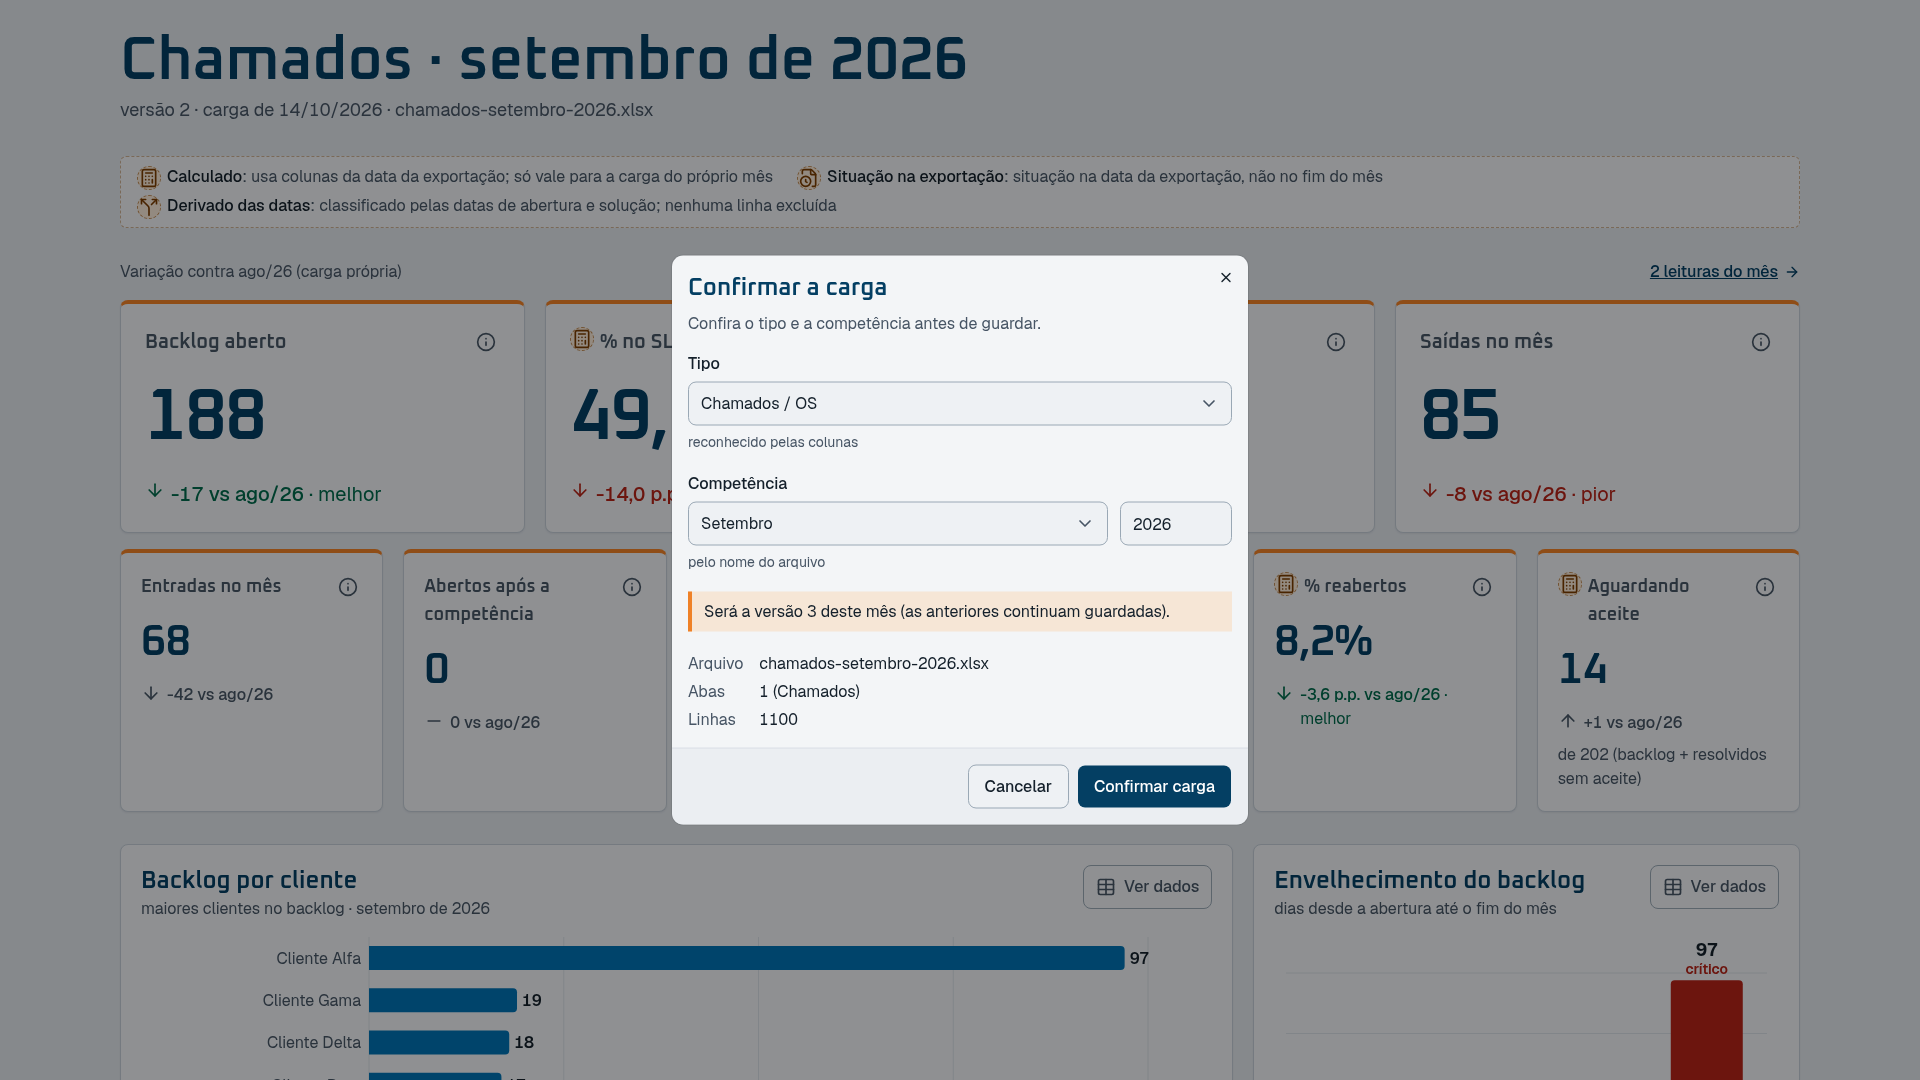
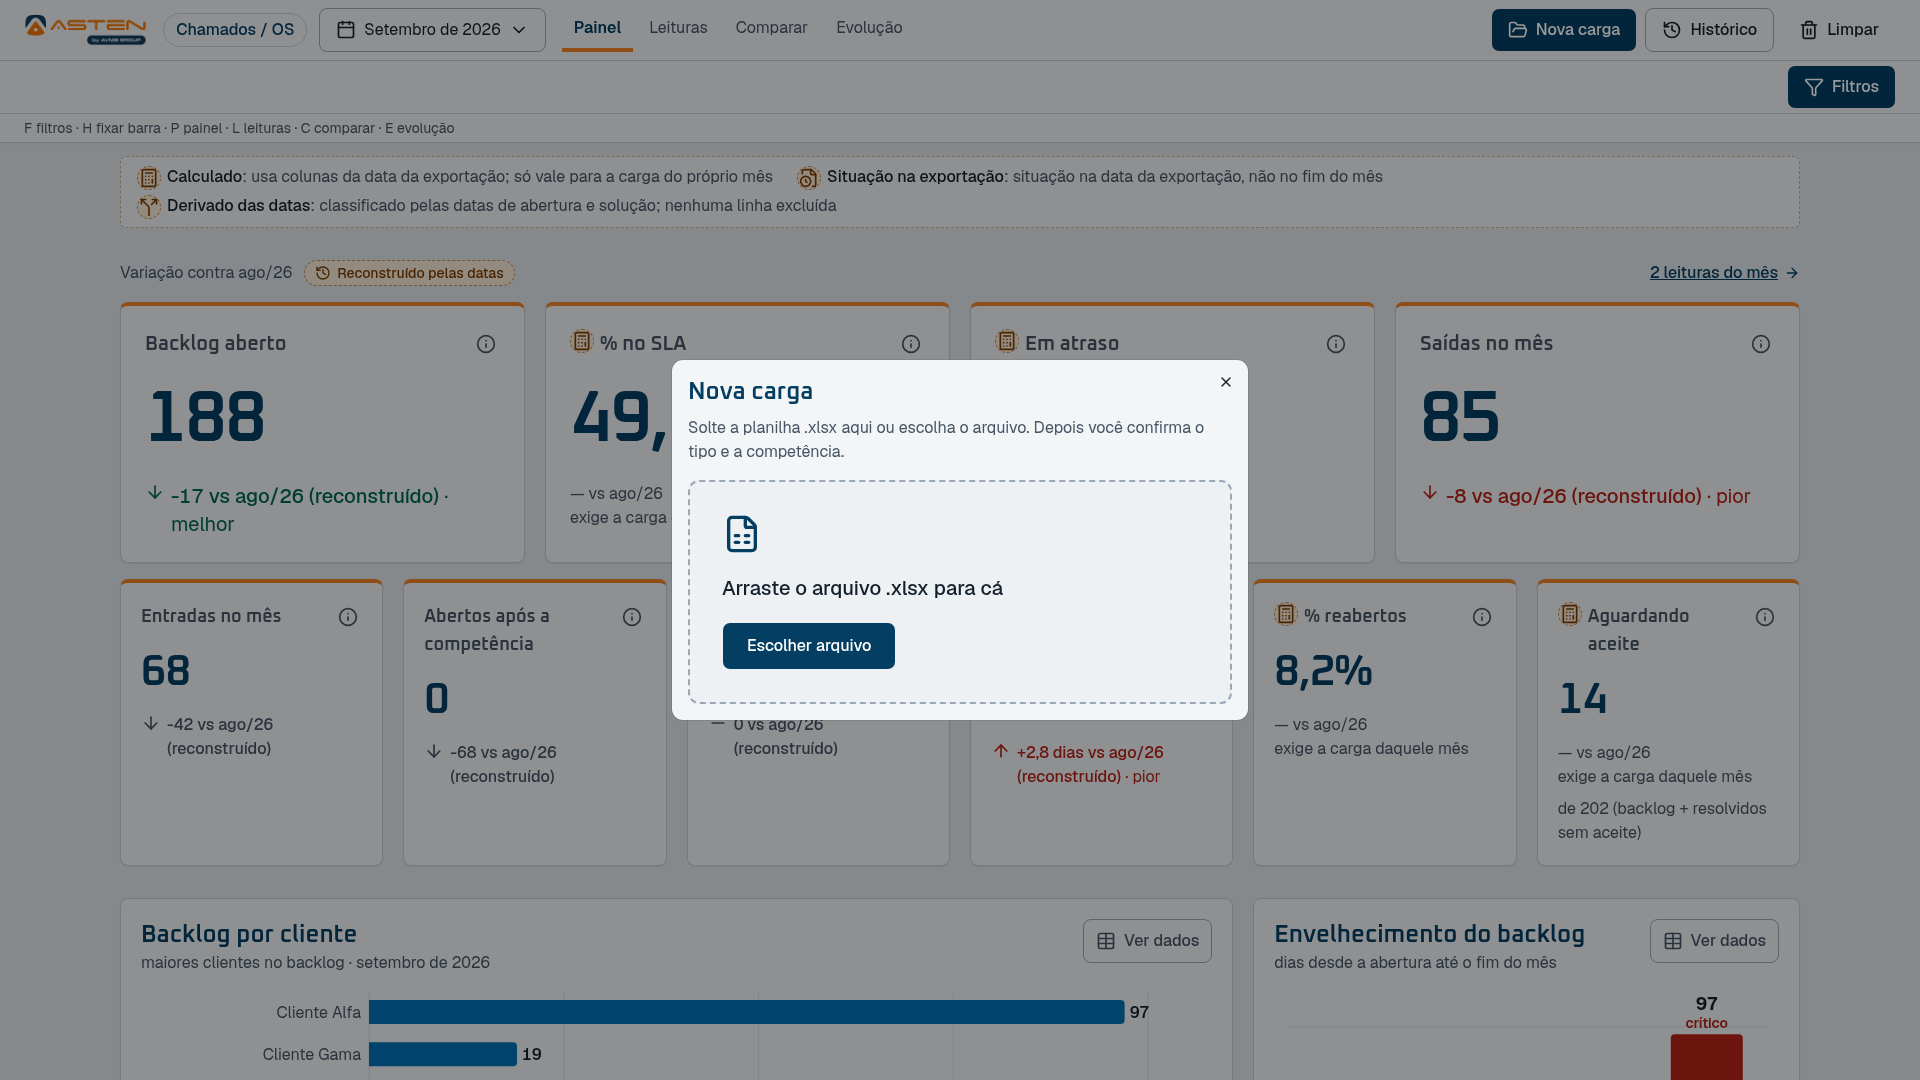
docs: artifact para a apresentação (o que foi feito, Comparar 2–6, lote) e PRD D57
Claude-Session: https://claude.ai/code/session_01GaCxeDwfaAuxhriwmaUCuh

diff --git a/docs/artifact/apresentacao-lider.html b/docs/artifact/apresentacao-lider.html
@@ -106,7 +106,7 @@ td.pick { font-family: var(--font-mono); font-size: 14.5px; color: var(--brand-i
 .tabs button:hover { color: var(--fg); background: var(--surface); }
 .tabs button[aria-selected="true"] { background: var(--surface); color: var(--fg); box-shadow: inset 0 -2px 0 var(--brand); }
 .shot { margin: 0; padding: 18px; display: grid; gap: 12px; }
-.shot .frame { border: 1px solid var(--line); border-radius: 8px; background: var(--bg); overflow: hidden; }
+.shot .frame { border: 1px solid var(--line); border-radius: 8px; background: var(--bg); max-height: 72vh; overflow-y: auto; }
 .shot img { display: block; width: 100%; height: auto; }
 .shot figcaption { font-size: 15px; color: var(--muted); max-width: 80ch; }
 .flag { display: inline-block; margin-right: 8px; font: 500 11.5px/1 var(--font-mono); letter-spacing: 0.06em; text-transform: uppercase; padding: 4px 7px; border-radius: 4px; background: var(--brand-soft); color: var(--brand-ink); vertical-align: 1px; }
@@ -151,13 +151,14 @@ footer { max-width: 1120px; margin: 52px auto 0; border-top: 1px solid var(--lin
 <header class="masthead">
   <img class="logo light" src="img/asten-logo-fundo-claro.png" alt="Asten by AVMB Group" width="153" height="40">
   <img class="logo dark" src="img/asten-logo-fundo-escuro.png" alt="Asten" width="153" height="40">
-  <div class="stamp"><span>MVP para validar · 14/10/2026</span><span>Chamados/OS</span></div>
+  <div class="stamp"><span>Apresentação · 15/10/2026</span><span>MVP em produção</span></div>
 </header>
 
 <div class="page">
   <nav class="rail" aria-label="Seções">
     <ol>
       <li><a href="#acesso">Acesso</a></li>
+      <li><a href="#feito">O que foi feito</a></li>
       <li><a href="#pedido">O que foi pedido</a></li>
       <li><a href="#telas">Telas</a></li>
       <li><a href="#reuniao">Na reunião</a></li>
@@ -171,7 +172,7 @@ footer { max-width: 1120px; margin: 52px auto 0; border-top: 1px solid var(--lin
   <main>
     <div class="intro">
       <h1>Painel das reuniões de coordenação</h1>
-      <p>A primeira versão já roda com a planilha de Chamados/OS: carga por competência, histórico guardado, painel do mês, leituras, comparação e evolução. É um MVP para validar as regras e o jeito de usar na TV antes do produto definitivo.</p>
+      <p>A primeira versão está no ar e roda com a planilha de Chamados/OS: carga por competência (uma ou várias de uma vez), histórico guardado, painel do mês, leituras, comparação de até 6 meses e evolução. É um MVP para validar as regras e o jeito de usar na TV antes do produto definitivo.</p>
     </div>
 
     <section id="acesso">
@@ -183,13 +184,28 @@ footer { max-width: 1120px; margin: 52px auto 0; border-top: 1px solid var(--lin
       <p class="note">O app abre na tela de envio, com a lista do que já foi carregado. O que for carregado aparece em qualquer computador. O login já está pronto e volta quando a versão for aprovada.</p>
     </section>
 
+
+    <section id="feito">
+      <h2>O que foi feito</h2>
+      <ol class="steps">
+        <li><div><b>13/10 · Proposta e protótipo</b><span>Escopo, stack e protótipo com dados fictícios para validar o visual.</span></div></li>
+        <li><div><b>13/10 · Carga por competência e histórico</b><span>Cada planilha entra com o mês de análise e fica guardada com versão; o passado pode ser revisitado e comparado.</span></div></li>
+        <li><div><b>14/10 · Painel estratégico de Chamados</b><span>KPIs com variação contra o mês anterior, leituras automáticas do mês, comparação e evolução, filtros que recalculam tudo, selos em todo número calculado. Números conferidos por um cálculo independente da planilha real.</span></div></li>
+        <li><div><b>14/10 · Banco e publicação</b><span>Histórico num banco do app, visto igual em qualquer computador; publicação só depois de todos os testes automáticos passarem.</span></div></li>
+        <li><div><b>14/10 · Abertura 3× mais rápida</b><span>Abrir o app a frio caiu de cerca de 8 s para cerca de 2,5 s.</span></div></li>
+        <li><div><b>14/10 · Uso na TV</b><span>Barra que só aparece quando chamada, cores menos claras, símbolos com legenda, seletores e abas com cor e transição.</span></div></li>
+        <li class="now"><div><b>14/10 · Fechamento do MVP</b><span>Comparar de 2 a 6 meses, leituras clicáveis em toda parte, histórico com versões agrupadas, nova carga arrastando o arquivo e envio de várias planilhas de uma vez.</span></div></li>
+      </ol>
+      <p class="note">Mais de 400 testes automáticos rodam a cada publicação. As capturas usam dados fictícios.</p>
+    </section>
+
     <section id="pedido">
       <h2>O que foi pedido</h2>
       <div class="table-wrap">
         <table>
           <thead><tr><th scope="col">#</th><th scope="col">Pedido</th><th scope="col">Situação</th><th scope="col">Como ficou</th></tr></thead>
           <tbody>
-            <tr><td class="rid">R1</td><td class="req">Subir um Excel e ver vários gráficos</td><td><span class="pill ok">Feito</span></td><td>A planilha é lida no navegador e vira painel, leituras, comparação e evolução.</td></tr>
+            <tr><td class="rid">R1</td><td class="req">Subir um Excel e ver vários gráficos</td><td><span class="pill ok">Feito</span></td><td>A planilha é lida no navegador e vira painel, leituras, comparação e evolução. Dá para soltar uma ou várias de uma vez.</td></tr>
             <tr><td class="rid">R2</td><td class="req">Sem login nem banco de dados</td><td><span class="pill rev">Revisto</span></td><td>Para guardar o passado e ver o mesmo histórico na TV e nos notebooks, entrou um banco. O login está pronto, mas fica desligado no MVP; volta depois da aprovação.</td></tr>
             <tr><td class="rid">R3</td><td class="req">Apelo visual e ajuda na análise</td><td><span class="pill ok">Feito</span></td><td>Leituras do mês, variação contra o mês anterior, rótulos nas barras, selos em todo número calculado, botão "Filtrar por isto".</td></tr>
             <tr><td class="rid">R4</td><td class="req">Curto prazo (1–2 meses) e backlog</td><td><span class="pill ok">Feito</span></td><td>Mês da competência contra o anterior; backlog, atraso e envelhecimento; evolução das últimas 6 competências.</td></tr>
@@ -197,8 +213,8 @@ footer { max-width: 1120px; margin: 52px auto 0; border-top: 1px solid var(--lin
             <tr><td class="rid">R6</td><td class="req">Ligar e desligar séries</td><td><span class="pill ok">Feito</span></td><td>Legenda clicável na Evolução e no Comparar; os totais não mudam.</td></tr>
             <tr><td class="rid">R7</td><td class="req">Filtrar por critérios</td><td><span class="pill ok">Feito</span></td><td>Cliente, Área Superior, Área, Atividade, Severidade, Operador e Situação. Tudo recalcula, inclusive comparação e evolução.</td></tr>
             <tr><td class="rid">R8</td><td class="req">Biblioteca de gráficos e leitura do Excel</td><td><span class="pill ok">Feito</span></td><td>Recharts para os gráficos; SheetJS lê o .xlsx no navegador.</td></tr>
-            <tr><td class="rid">R9</td><td class="req">Carga por competência</td><td><span class="pill ok">Feito</span></td><td>Na carga, o app sugere o mês pela aba ou pelo nome do arquivo e a pessoa confirma.</td></tr>
-            <tr><td class="rid">R10</td><td class="req">Guardar o passado e comparar</td><td><span class="pill ok">Feito</span></td><td>Cada carga fica guardada com versão; versões do mesmo mês ficam agrupadas, com a mais recente por cima. Histórico com abas Enviados e Geral, busca e comparação entre dois meses.</td></tr>
+            <tr><td class="rid">R9</td><td class="req">Carga por competência</td><td><span class="pill ok">Feito</span></td><td>Na carga, o app sugere o mês pela aba ou pelo nome do arquivo e a pessoa confirma; num lote, cada arquivo tem a sua linha para conferir.</td></tr>
+            <tr><td class="rid">R10</td><td class="req">Guardar o passado e comparar</td><td><span class="pill ok">Feito</span></td><td>Cada carga fica guardada com versão; versões do mesmo mês ficam agrupadas, com a mais recente por cima. Histórico com abas Enviados e Geral, busca, e comparação de 2 a 6 meses.</td></tr>
             <tr><td class="rid">R11</td><td class="req">Outros conjuntos depois (projetos, OSs)</td><td><span class="pill ok">Pronto para receber</span></td><td>Cada tipo de planilha tem o próprio painel. Planilha não reconhecida ganha gráficos automáticos.</td></tr>
           </tbody>
         </table>
@@ -216,11 +232,12 @@ footer { max-width: 1120px; margin: 52px auto 0; border-top: 1px solid var(--lin
           <button role="tab" id="t-evolucao" aria-controls="shot" aria-selected="false" tabindex="-1">Evolução</button>
           <button role="tab" id="t-filtros" aria-controls="shot" aria-selected="false" tabindex="-1">Filtros</button>
           <button role="tab" id="t-carga" aria-controls="shot" aria-selected="false" tabindex="-1">Nova carga</button>
+          <button role="tab" id="t-lote" aria-controls="shot" aria-selected="false" tabindex="-1">Várias de uma vez</button>
           <button role="tab" id="t-abertura" aria-controls="shot" aria-selected="false" tabindex="-1">Abertura</button>
           <button role="tab" id="t-historico" aria-controls="shot" aria-selected="false" tabindex="-1">Histórico</button>
         </div>
         <figure class="shot" id="shot" role="tabpanel" aria-labelledby="t-painel">
-          <div class="frame">
+          <div class="frame" tabindex="0" aria-label="Captura da tela; role para ver a tela inteira">
             <img id="shot-img" src="img/v2/painel-limpo.png" alt="Painel de Chamados de setembro com KPIs e variação contra agosto" width="1920" height="1080">
           </div>
           <figcaption id="shot-cap"><span class="flag">Dados fictícios</span>Painel do mês na TV, com a barra escondida: KPIs com a variação contra o mês anterior e os gráficos do backlog.</figcaption>
@@ -240,6 +257,7 @@ footer { max-width: 1120px; margin: 52px auto 0; border-top: 1px solid var(--lin
         <li><span><kbd>H</kbd></span><span>Fixar ou soltar a barra</span></li>
         <li><span><kbd>←</kbd><kbd>→</kbd></span><span>Visão anterior e seguinte</span></li>
         <li><span><kbd>Esc</kbd></span><span>Fecha o que estiver aberto</span></li>
+        <li><span><kbd>Arrastar</kbd></span><span>Solte planilhas na tela para carregar</span></li>
       </ul>
       <p class="note">A barra de cima fica escondida para a tela mostrar só informação. Ela aparece quando o mouse chega no topo ou com <kbd>H</kbd>. Os filtros ativos continuam visíveis como etiquetas.</p>
     </section>
@@ -252,6 +270,8 @@ footer { max-width: 1120px; margin: 52px auto 0; border-top: 1px solid var(--lin
         <div class="card"><h3>Leituras do mês</h3><p>Regras com limite fixo apontam o que merece atenção. Não fazem previsão; só mostram o que os números do mês dizem.</p></div>
         <div class="card"><h3>Número calculado tem selo</h3><p>Todo valor que não veio pronto da planilha leva um selo. Meses sem carga própria aparecem tracejados na evolução.</p></div>
         <div class="card"><h3>Histórico com duas abas</h3><p>Enviados mostra o que saiu deste computador, e dá para limpar a lista sem apagar nada. Geral mostra tudo, com busca.</p></div>
+        <div class="card"><h3>Comparar até 6 meses</h3><p>Escolha de 2 a 6 competências. A tabela mostra a variação entre o primeiro e o último mês e uma setinha de mês a mês; as leituras abrem o detalhe.</p></div>
+        <div class="card"><h3>Várias planilhas de uma vez</h3><p>Solte até 12 arquivos; uma tabela confere tipo e mês de cada um antes de guardar.</p></div>
         <div class="card"><h3>Nada é descartado</h3><p>Todos os chamados da planilha entram no cálculo, cada um com a sua situação no mês.</p></div>
       </div>
     </section>
@@ -324,10 +344,11 @@ footer { max-width: 1120px; margin: 52px auto 0; border-top: 1px solid var(--lin
     ["img/v2/painel-limpo.png", "Painel de Chamados de setembro com KPIs e variação contra agosto", "Painel do mês na TV, com a barra escondida: KPIs com a variação contra o mês anterior e os gráficos do backlog."],
     ["img/v2/leituras.png", "Leituras do mês com um cartão crítico e um de atenção", "Leituras do mês: cada cartão diz o que chamou atenção e por quê, do mais grave ao menos grave."],
     ["img/v2/leitura-modal.png", "Detalhe de uma leitura com a regra, os números e o gráfico de envelhecimento", "Detalhe de uma leitura: a regra que disparou, os números que a sustentam e um gráfico de evidência."],
-    ["img/v2/comparar.png", "Comparação entre agosto e setembro com indicadores lado a lado", "Comparar: dois meses lado a lado, com o que melhorou e o que piorou. A legenda liga e desliga cada mês."],
+    ["img/v2/comparar.png", "Comparação entre julho, agosto e setembro com indicadores lado a lado", "Comparar: de 2 a 6 meses lado a lado, com a variação entre o primeiro e o último e uma setinha mês a mês. As leituras abaixo abrem o detalhe; a legenda liga e desliga cada mês."],
     ["img/v2/evolucao.png", "Evolução dos indicadores ao longo dos meses, com pontos reconstruídos tracejados", "Evolução das últimas competências. Pontos tracejados são meses sem carga própria, montados pelas datas."],
     ["img/v2/filtros.png", "Painel de filtros aberto com o filtro Cliente Beta aplicado", "Filtros: o recorte vale para tudo (KPIs, gráficos, leituras, comparação e evolução) e aparece como etiqueta."],
-    ["img/v2/nova-carga.png", "Diálogo de confirmação da nova carga com tipo e competência", "Nova carga: o app reconhece o tipo e sugere a competência; a pessoa confirma."],
+    ["img/v2/nova-carga.png", "Modal de nova carga com a área para soltar a planilha", "Nova carga: solte a planilha na área (ou arraste sobre a tela); o app reconhece o tipo e sugere a competência."],
+    ["img/v2/lote.png", "Confirmação de várias planilhas numa tabela, uma linha por arquivo", "Várias de uma vez: até 12 planilhas; cada linha mostra tipo e competência para conferir, e avisa quando o mês vira uma nova versão."],
     ["img/v2/abertura.png", "Tela de envio com a lista de cargas agrupadas por mês", "Abertura: a tela de envio, com o que já existe agrupado por mês e a versão mais recente por cima."],
     ["img/v2/historico.png", "Histórico na aba Geral com o grupo de setembro expandido", "Histórico: Enviados (o que saiu deste computador) e Geral (tudo, com busca). Versões do mesmo mês ficam num grupo, a mais recente por cima."]
   ];
@@ -337,7 +358,7 @@ footer { max-width: 1120px; margin: 52px auto 0; border-top: 1px solid var(--lin
   const panel = document.getElementById("shot");
   function show(i, focus) {
     const [src, alt, text] = shots[i];
-    img.src = src; img.alt = alt;
+    img.src = src; img.alt = alt; img.parentElement.scrollTop = 0;
     cap.replaceChildren(Object.assign(document.createElement("span"), { className: "flag", textContent: "Dados fictícios" }), text);
     tabs.forEach((t, j) => { t.setAttribute("aria-selected", String(j === i)); t.tabIndex = j === i ? 0 : -1; });
     panel.setAttribute("aria-labelledby", tabs[i].id);

diff --git a/PRD-dash-asten.md b/PRD-dash-asten.md
@@ -63,6 +63,7 @@
 | D54 | Comparar 2 a 6 competências | Revisa a D32: o Comparar aceita de **2 a 6 competências**. Colunas em ordem cronológica; **uma coluna Δ no fim = última − primeira**; cada célula ganha uma setinha discreta vs a coluna anterior (sem número). As Leituras do Comparar comparam a mais recente com a anterior a ela e são **clicáveis**, abrindo o mesmo detalhe da visão Leituras (D40). Decidido pelo responsável em 14/10. |
 | D55 | Nova carga em modal | O botão "Nova carga" abre um modal com a mesma área de arrastar e soltar da tela inicial ("Escolher arquivo" continua como alternativa). Arrastar um arquivo sobre a janela, com o painel aberto, também abre o modal. |
 | D56 | Envio em lote | Até **12 planilhas** de uma vez (soltar ou escolher várias). Com 2 ou mais, a confirmação vira uma **tabela, uma linha por arquivo**, com tipo e competência sugeridos e editáveis, aviso de versão quando o mês se repete e de tipo "Outro"; dá para tirar uma linha. "Confirmar N cargas" envia **um por vez**, com estado por linha; falha numa linha não para as outras e pode ser repetida. No fim, abre a competência mais recente do lote. Com 1 arquivo, o fluxo é o de sempre. |
+| D57 | Competência reconhecida em todas as formas | Revisa a sugestão da D28: o app procura o mês no nome da aba, no nome do arquivo, nos títulos e cabeçalhos da planilha e, por fim, **nas datas das linhas** (mês mais recente com volume significativo da coluna de evento, ignorando datas futuras como SLA), sem a trava "só mês atual ou anterior". Reconhece mês por extenso e abreviado (pt-BR e inglês), junto ou separado do ano (`set/26`, `SET26`, `setembro2026`), número + ano (`2026-09`, `09/2026`, `202609`) e datas completas em vários formatos (`30/09/2026`, `2026-09-30`, `30-set-2026`, `30 de setembro de 2026`, data do Excel). A pessoa sempre confirma. |
 | D16 | Versionamento | Git com repositório privado `gomesbeduardo/dash-asten`. `.gitignore` bloqueia `*.xlsx`/`*.csv` fora de `fixtures/`. |
 
 ## 0.1 Requisitos de origem
